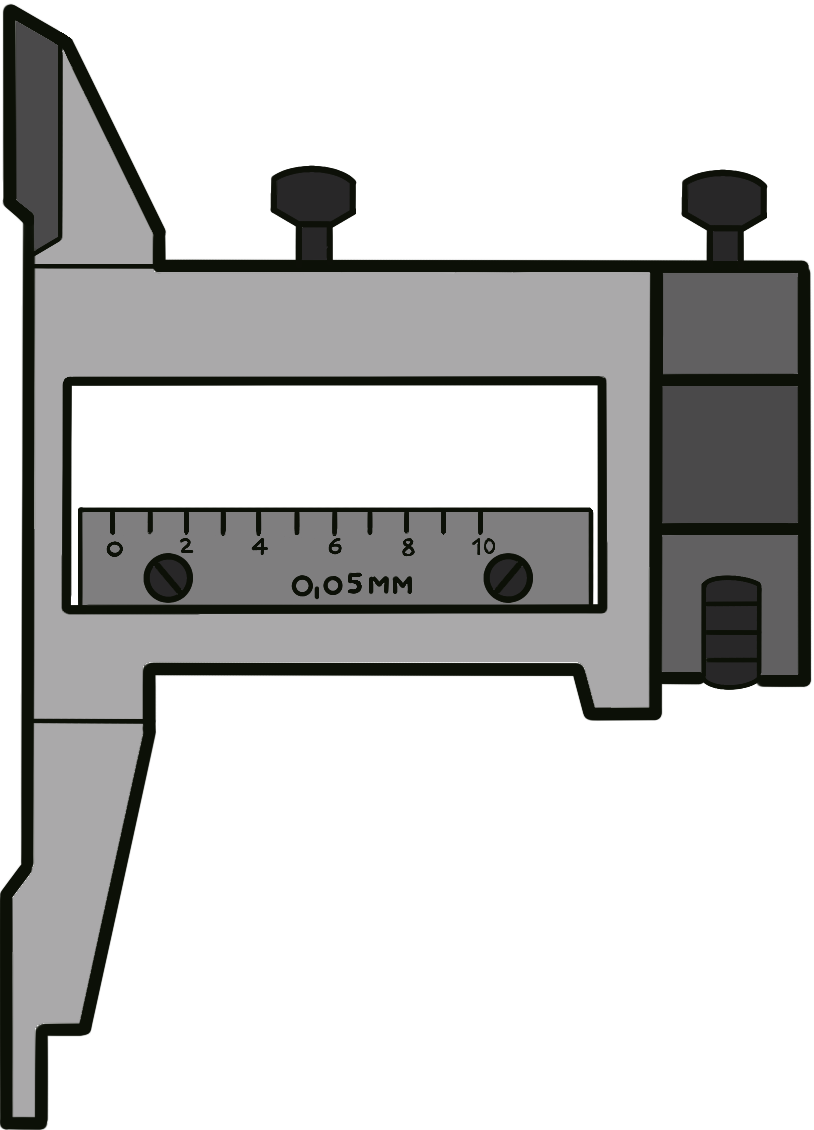
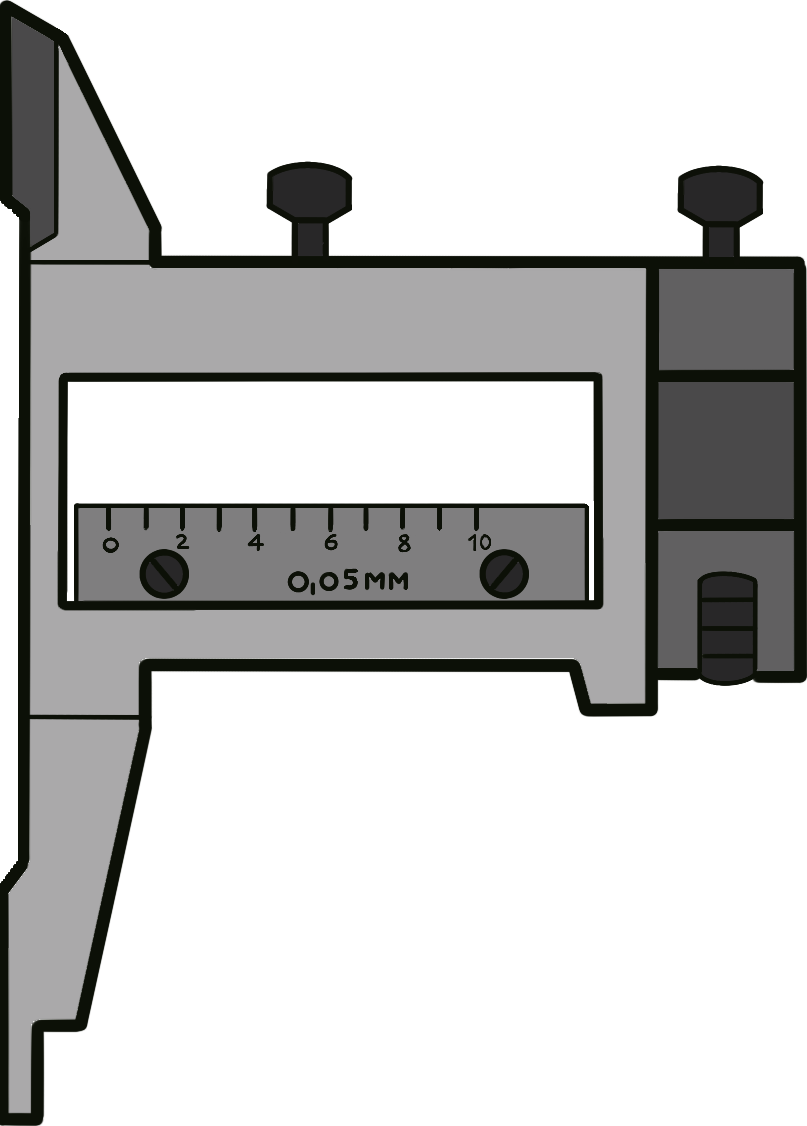
Сделал окно в рамке прозрачным

diff --git a/Labbass-Laba0/LabForm.Designer.cs b/Labbass-Laba0/LabForm.Designer.cs
@@ -33,15 +33,15 @@ namespace Labbass_Laba0
             this.tabControl1 = new System.Windows.Forms.TabControl();
             this.tabPage1 = new System.Windows.Forms.TabPage();
             this.tabPage2 = new System.Windows.Forms.TabPage();
-            this.pictureBox1 = new System.Windows.Forms.PictureBox();
-            this.pictureBox3 = new System.Windows.Forms.PictureBox();
-            this.panel1 = new System.Windows.Forms.Panel();
-            this.pictureBox2 = new System.Windows.Forms.PictureBox();
+            this.MeasuringObject = new System.Windows.Forms.PictureBox();
+            this.MovableFrame = new System.Windows.Forms.PictureBox();
+            this.StaticFrame = new System.Windows.Forms.PictureBox();
+            this.label1 = new System.Windows.Forms.Label();
             this.tabControl1.SuspendLayout();
             this.tabPage1.SuspendLayout();
-            ((System.ComponentModel.ISupportInitialize)(this.pictureBox1)).BeginInit();
-            ((System.ComponentModel.ISupportInitialize)(this.pictureBox3)).BeginInit();
-            ((System.ComponentModel.ISupportInitialize)(this.pictureBox2)).BeginInit();
+            ((System.ComponentModel.ISupportInitialize)(this.MeasuringObject)).BeginInit();
+            ((System.ComponentModel.ISupportInitialize)(this.MovableFrame)).BeginInit();
+            ((System.ComponentModel.ISupportInitialize)(this.StaticFrame)).BeginInit();
             this.SuspendLayout();
             // 
             // button1
@@ -58,7 +58,7 @@ namespace Labbass_Laba0
             // 
             this.tabControl1.Controls.Add(this.tabPage1);
             this.tabControl1.Controls.Add(this.tabPage2);
-            this.tabControl1.Location = new System.Drawing.Point(1, 1);
+            this.tabControl1.Location = new System.Drawing.Point(0, 0);
             this.tabControl1.Name = "tabControl1";
             this.tabControl1.SelectedIndex = 0;
             this.tabControl1.Size = new System.Drawing.Size(797, 408);
@@ -66,10 +66,10 @@ namespace Labbass_Laba0
             // 
             // tabPage1
             // 
-            this.tabPage1.Controls.Add(this.pictureBox2);
-            this.tabPage1.Controls.Add(this.panel1);
-            this.tabPage1.Controls.Add(this.pictureBox1);
-            this.tabPage1.Controls.Add(this.pictureBox3);
+            this.tabPage1.Controls.Add(this.label1);
+            this.tabPage1.Controls.Add(this.MeasuringObject);
+            this.tabPage1.Controls.Add(this.MovableFrame);
+            this.tabPage1.Controls.Add(this.StaticFrame);
             this.tabPage1.Location = new System.Drawing.Point(4, 22);
             this.tabPage1.Name = "tabPage1";
             this.tabPage1.Padding = new System.Windows.Forms.Padding(3);
@@ -88,51 +88,48 @@ namespace Labbass_Laba0
             this.tabPage2.Text = "Микрометр";
             this.tabPage2.UseVisualStyleBackColor = true;
             // 
-            // pictureBox1
+            // MeasuringObject
             // 
-            this.pictureBox1.BackColor = System.Drawing.Color.Transparent;
-            this.pictureBox1.BackgroundImageLayout = System.Windows.Forms.ImageLayout.Zoom;
-            this.pictureBox1.Cursor = System.Windows.Forms.Cursors.Default;
-            this.pictureBox1.Image = global::Labbass_Laba0.Properties.Resources.штангенциркуль2;
-            this.pictureBox1.Location = new System.Drawing.Point(281, 63);
-            this.pictureBox1.Name = "pictureBox1";
-            this.pictureBox1.Size = new System.Drawing.Size(138, 199);
-            this.pictureBox1.SizeMode = System.Windows.Forms.PictureBoxSizeMode.Zoom;
-            this.pictureBox1.TabIndex = 3;
-            this.pictureBox1.TabStop = false;
+            this.MeasuringObject.BackgroundImageLayout = System.Windows.Forms.ImageLayout.Zoom;
+            this.MeasuringObject.Cursor = System.Windows.Forms.Cursors.Hand;
+            this.MeasuringObject.Image = global::Labbass_Laba0.Properties.Resources.груз2;
+            this.MeasuringObject.Location = new System.Drawing.Point(21, 286);
+            this.MeasuringObject.Name = "MeasuringObject";
+            this.MeasuringObject.Size = new System.Drawing.Size(90, 51);
+            this.MeasuringObject.TabIndex = 7;
+            this.MeasuringObject.TabStop = false;
             // 
-            // pictureBox3
+            // MovableFrame
             // 
-            this.pictureBox3.BackgroundImage = global::Labbass_Laba0.Properties.Resources.штангенциркуль_осн2;
-            this.pictureBox3.BackgroundImageLayout = System.Windows.Forms.ImageLayout.Zoom;
-            this.pictureBox3.Location = new System.Drawing.Point(28, 25);
-            this.pictureBox3.Name = "pictureBox3";
-            this.pictureBox3.Size = new System.Drawing.Size(554, 274);
-            this.pictureBox3.TabIndex = 2;
-            this.pictureBox3.TabStop = false;
+            this.MovableFrame.BackColor = System.Drawing.Color.Transparent;
+            this.MovableFrame.BackgroundImageLayout = System.Windows.Forms.ImageLayout.Zoom;
+            this.MovableFrame.Cursor = System.Windows.Forms.Cursors.Default;
+            this.MovableFrame.Image = global::Labbass_Laba0.Properties.Resources.штангенциркуль21;
+            this.MovableFrame.Location = new System.Drawing.Point(388, 59);
+            this.MovableFrame.Name = "MovableFrame";
+            this.MovableFrame.Size = new System.Drawing.Size(186, 256);
+            this.MovableFrame.SizeMode = System.Windows.Forms.PictureBoxSizeMode.Zoom;
+            this.MovableFrame.TabIndex = 3;
+            this.MovableFrame.TabStop = false;
             // 
-            // panel1
+            // StaticFrame
             // 
-            this.panel1.AllowDrop = true;
-            this.panel1.Location = new System.Drawing.Point(155, 253);
-            this.panel1.Name = "panel1";
-            this.panel1.Size = new System.Drawing.Size(120, 28);
-            this.panel1.TabIndex = 4;
-            this.panel1.DragDrop += new System.Windows.Forms.DragEventHandler(this.panel1_DragDrop);
-            this.panel1.DragEnter += new System.Windows.Forms.DragEventHandler(this.panel1_DragEnter);
-            this.panel1.DragOver += new System.Windows.Forms.DragEventHandler(this.panel1_DragOver);
-            this.panel1.DragLeave += new System.EventHandler(this.panel1_DragLeave);
+            this.StaticFrame.BackgroundImage = global::Labbass_Laba0.Properties.Resources.штангенциркуль_осн2;
+            this.StaticFrame.BackgroundImageLayout = System.Windows.Forms.ImageLayout.Zoom;
+            this.StaticFrame.Location = new System.Drawing.Point(0, 19);
+            this.StaticFrame.Name = "StaticFrame";
+            this.StaticFrame.Size = new System.Drawing.Size(783, 360);
+            this.StaticFrame.TabIndex = 2;
+            this.StaticFrame.TabStop = false;
             // 
-            // pictureBox2
+            // label1
             // 
-            this.pictureBox2.BackgroundImage = global::Labbass_Laba0.Properties.Resources.груз2;
-            this.pictureBox2.BackgroundImageLayout = System.Windows.Forms.ImageLayout.Zoom;
-            this.pictureBox2.Cursor = System.Windows.Forms.Cursors.Hand;
-            this.pictureBox2.Location = new System.Drawing.Point(498, 252);
-            this.pictureBox2.Name = "pictureBox2";
-            this.pictureBox2.Size = new System.Drawing.Size(49, 29);
-            this.pictureBox2.TabIndex = 7;
-            this.pictureBox2.TabStop = false;
+            this.label1.AutoSize = true;
+            this.label1.Location = new System.Drawing.Point(625, 343);
+            this.label1.Name = "label1";
+            this.label1.Size = new System.Drawing.Size(143, 13);
+            this.label1.TabIndex = 8;
+            this.label1.Text = "A, D - перемещение рамки";
             // 
             // LabForm
             // 
@@ -148,9 +145,10 @@ namespace Labbass_Laba0
             this.KeyDown += new System.Windows.Forms.KeyEventHandler(this.LabForm_KeyDown);
             this.tabControl1.ResumeLayout(false);
             this.tabPage1.ResumeLayout(false);
-            ((System.ComponentModel.ISupportInitialize)(this.pictureBox1)).EndInit();
-            ((System.ComponentModel.ISupportInitialize)(this.pictureBox3)).EndInit();
-            ((System.ComponentModel.ISupportInitialize)(this.pictureBox2)).EndInit();
+            this.tabPage1.PerformLayout();
+            ((System.ComponentModel.ISupportInitialize)(this.MeasuringObject)).EndInit();
+            ((System.ComponentModel.ISupportInitialize)(this.MovableFrame)).EndInit();
+            ((System.ComponentModel.ISupportInitialize)(this.StaticFrame)).EndInit();
             this.ResumeLayout(false);
 
         }
@@ -160,9 +158,9 @@ namespace Labbass_Laba0
         private System.Windows.Forms.TabControl tabControl1;
         private System.Windows.Forms.TabPage tabPage1;
         private System.Windows.Forms.TabPage tabPage2;
-        private System.Windows.Forms.PictureBox pictureBox1;
-        private System.Windows.Forms.PictureBox pictureBox3;
-        private System.Windows.Forms.Panel panel1;
-        private System.Windows.Forms.PictureBox pictureBox2;
+        private System.Windows.Forms.PictureBox MovableFrame;
+        private System.Windows.Forms.PictureBox StaticFrame;
+        private System.Windows.Forms.PictureBox MeasuringObject;
+        private System.Windows.Forms.Label label1;
     }
 }

diff --git a/Labbass-Laba0/LabForm.cs b/Labbass-Laba0/LabForm.cs
@@ -30,71 +30,28 @@ namespace Labbass_Laba0
             {
                 case (char)Keys.A:
                     {
-                        pictureBox1.Location = new Point(pictureBox1.Location.X - 1, pictureBox1.Location.Y);
+                        MovableFrame.Location = new Point(MovableFrame.Location.X - 1, MovableFrame.Location.Y);
                         break;
                     };
-                    case (char)Keys.D:
+                case (char)Keys.D:
                     {
-                        pictureBox1.Location = new Point(pictureBox1.Location.X + 1, pictureBox1.Location.Y);
+                        MovableFrame.Location = new Point(MovableFrame.Location.X + 1, MovableFrame.Location.Y);
                         break;
                     };
                 default:
                     break;
             }
         }
-
-        private void panel1_DragDrop(object sender, DragEventArgs e)
-        {
-            panel1.BackgroundImage = Resources.груз2;
-            panel1.BackgroundImageLayout = ImageLayout.Zoom;
-        }
-
-        private void panel1_DragEnter(object sender, DragEventArgs e)
-        {
-            panel1.BackColor = Color.Red;
-        }
-
-        private void panel1_DragLeave(object sender, EventArgs e)
-        {
-            panel1.BackColor = Color.Gray;
-        }
-
-        private void panel1_DragOver(object sender, DragEventArgs e)
-        {
-            panel1.BackColor = Color.Red;
-        }
-
         private void LabForm_Load(object sender, EventArgs e)
         {
-            ControlExtension.Draggable(pictureBox2, true);
-        }
-        protected override void OnPaintBackground(PaintEventArgs e)
-        // Paint background with underlying graphics from other controls
-        {
-            base.OnPaintBackground(e);
-            Graphics g = e.Graphics;
+            ControlExtension.Draggable(MeasuringObject, true);
 
-            if (Parent != null)
-            {
-                // Take each control in turn
-                int index = Parent.Controls.GetChildIndex(this);
-                for (int i = Parent.Controls.Count - 1; i > index; i--)
-                {
-                    Control c = Parent.Controls[i];
-
-                    // Check it's visible and overlaps this control
-                    if (c.Bounds.IntersectsWith(Bounds) && c.Visible)
-                    {
-                        // Load appearance of underlying control and redraw it on this background
-                        Bitmap bmp = new Bitmap(c.Width, c.Height, g);
-                        c.DrawToBitmap(bmp, c.ClientRectangle);
-                        g.TranslateTransform(c.Left - Left, c.Top - Top);
-                        g.DrawImageUnscaled(bmp, Point.Empty);
-                        g.TranslateTransform(Left - c.Left, Top - c.Top);
-                        bmp.Dispose();
-                    }
-                }
-            }
+            StaticFrame.Controls.Add(MovableFrame);
+            MovableFrame.BackColor = Color.Transparent;
+            var shtang = Resources.штангенциркуль21;
+            shtang.MakeTransparent(Color.White);
+            MovableFrame.Image = shtang;
+            MovableFrame.SizeMode = PictureBoxSizeMode.Zoom;
         }
     }
 }

diff --git a/Labbass-Laba0/Properties/Resources.Designer.cs b/Labbass-Laba0/Properties/Resources.Designer.cs
@@ -83,16 +83,6 @@ namespace Labbass_Laba0.Properties {
         /// <summary>
         ///   Поиск локализованного ресурса типа System.Drawing.Bitmap.
         /// </summary>
-        internal static System.Drawing.Bitmap штангенциркуль2 {
-            get {
-                object obj = ResourceManager.GetObject("штангенциркуль2", resourceCulture);
-                return ((System.Drawing.Bitmap)(obj));
-            }
-        }
-        
-        /// <summary>
-        ///   Поиск локализованного ресурса типа System.Drawing.Bitmap.
-        /// </summary>
         internal static System.Drawing.Bitmap штангенциркуль21 {
             get {
                 object obj = ResourceManager.GetObject("штангенциркуль21", resourceCulture);
